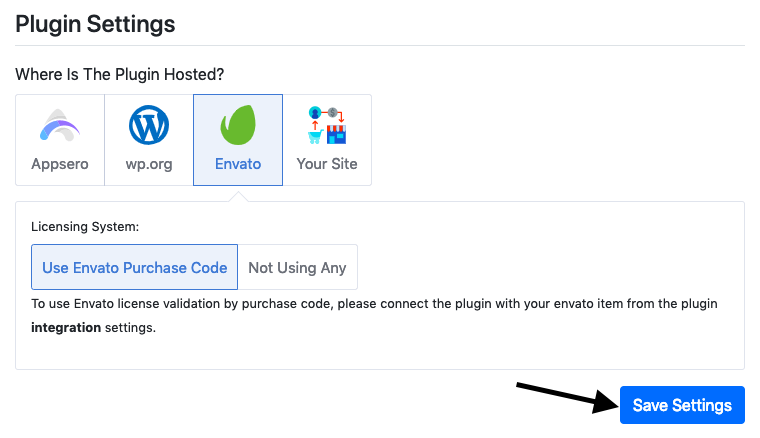
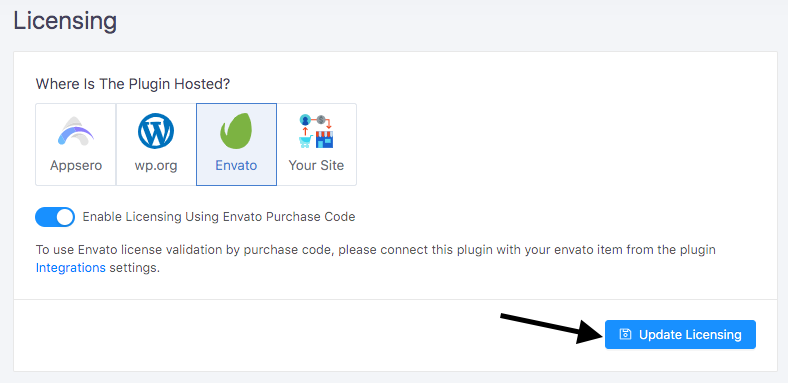
Updated all images

diff --git a/docs/user-guide/add-theme.md b/docs/user-guide/add-theme.md
@@ -95,7 +95,9 @@ If this is a premium theme then check on <code>This Is a Premium Theme</code> ch
 If enabled <code>This Is a Premium theme</code> then, you will get an option  for variation. If the theme has multiple variations then check on <code>Has Variations</code> and add variations by providing <code>Variations Name</code> and <code>Activations limit.</code> 
 <br><br>
 
-![Theme Settings](../images/project/settings.png)
+![An image](../images/project/licensing.png)
+
+![An image](../images/project/variations.png)
 
 Finally, click on <code>**Save Settings**</code> button. 
 

diff --git a/docs/user-guide/add-pluign.md b/docs/user-guide/add-pluign.md
@@ -108,7 +108,9 @@ If this is a premium plugin then check on <code>This Is a Premium Plugin</code> 
 If enabled <code>This Is a Premium Plugin</code> then you will get an option  for variation. If the plugin has multiple variations then check on <code>Has Variations</code> and add variations by providing <code>Variations Name</code> and <code>Activations limit.</code> 
 <br><br>
 
-![An image](../images/project/settings.png)
+![An image](../images/project/licensing.png)
+
+![An image](../images/project/variations.png)
 
 Finally, click on <code>**Save Settings**</code> button. 
 

diff --git a/docs/user-guide/forword-deactivation.md b/docs/user-guide/forword-deactivation.md
@@ -28,7 +28,7 @@ If you would like to enable `Deactivation Auto Responder` then go to `Deactivati
 
 After clicking on the `Edit` button you will get a form with email subject and email body. 
 
-![Deactivation Auto Responder](../images/settings/aurto-responder-form.png)
+![Deactivation Auto Responder](../images/settings/auto-responder-form.png)
 
 Fill up the form with email's Subject and Body. This email will be sent to the customer for this deactivation. Finally, click on `Update` button.
 

diff --git a/docs/user-guide/sync-license.md b/docs/user-guide/sync-license.md
@@ -74,3 +74,4 @@ To sync license with your WordPress store go to `Licenses` page and click on `Sy
 
 > Syncing will be started and you will get an email when syncing will be completed. 
 
+
